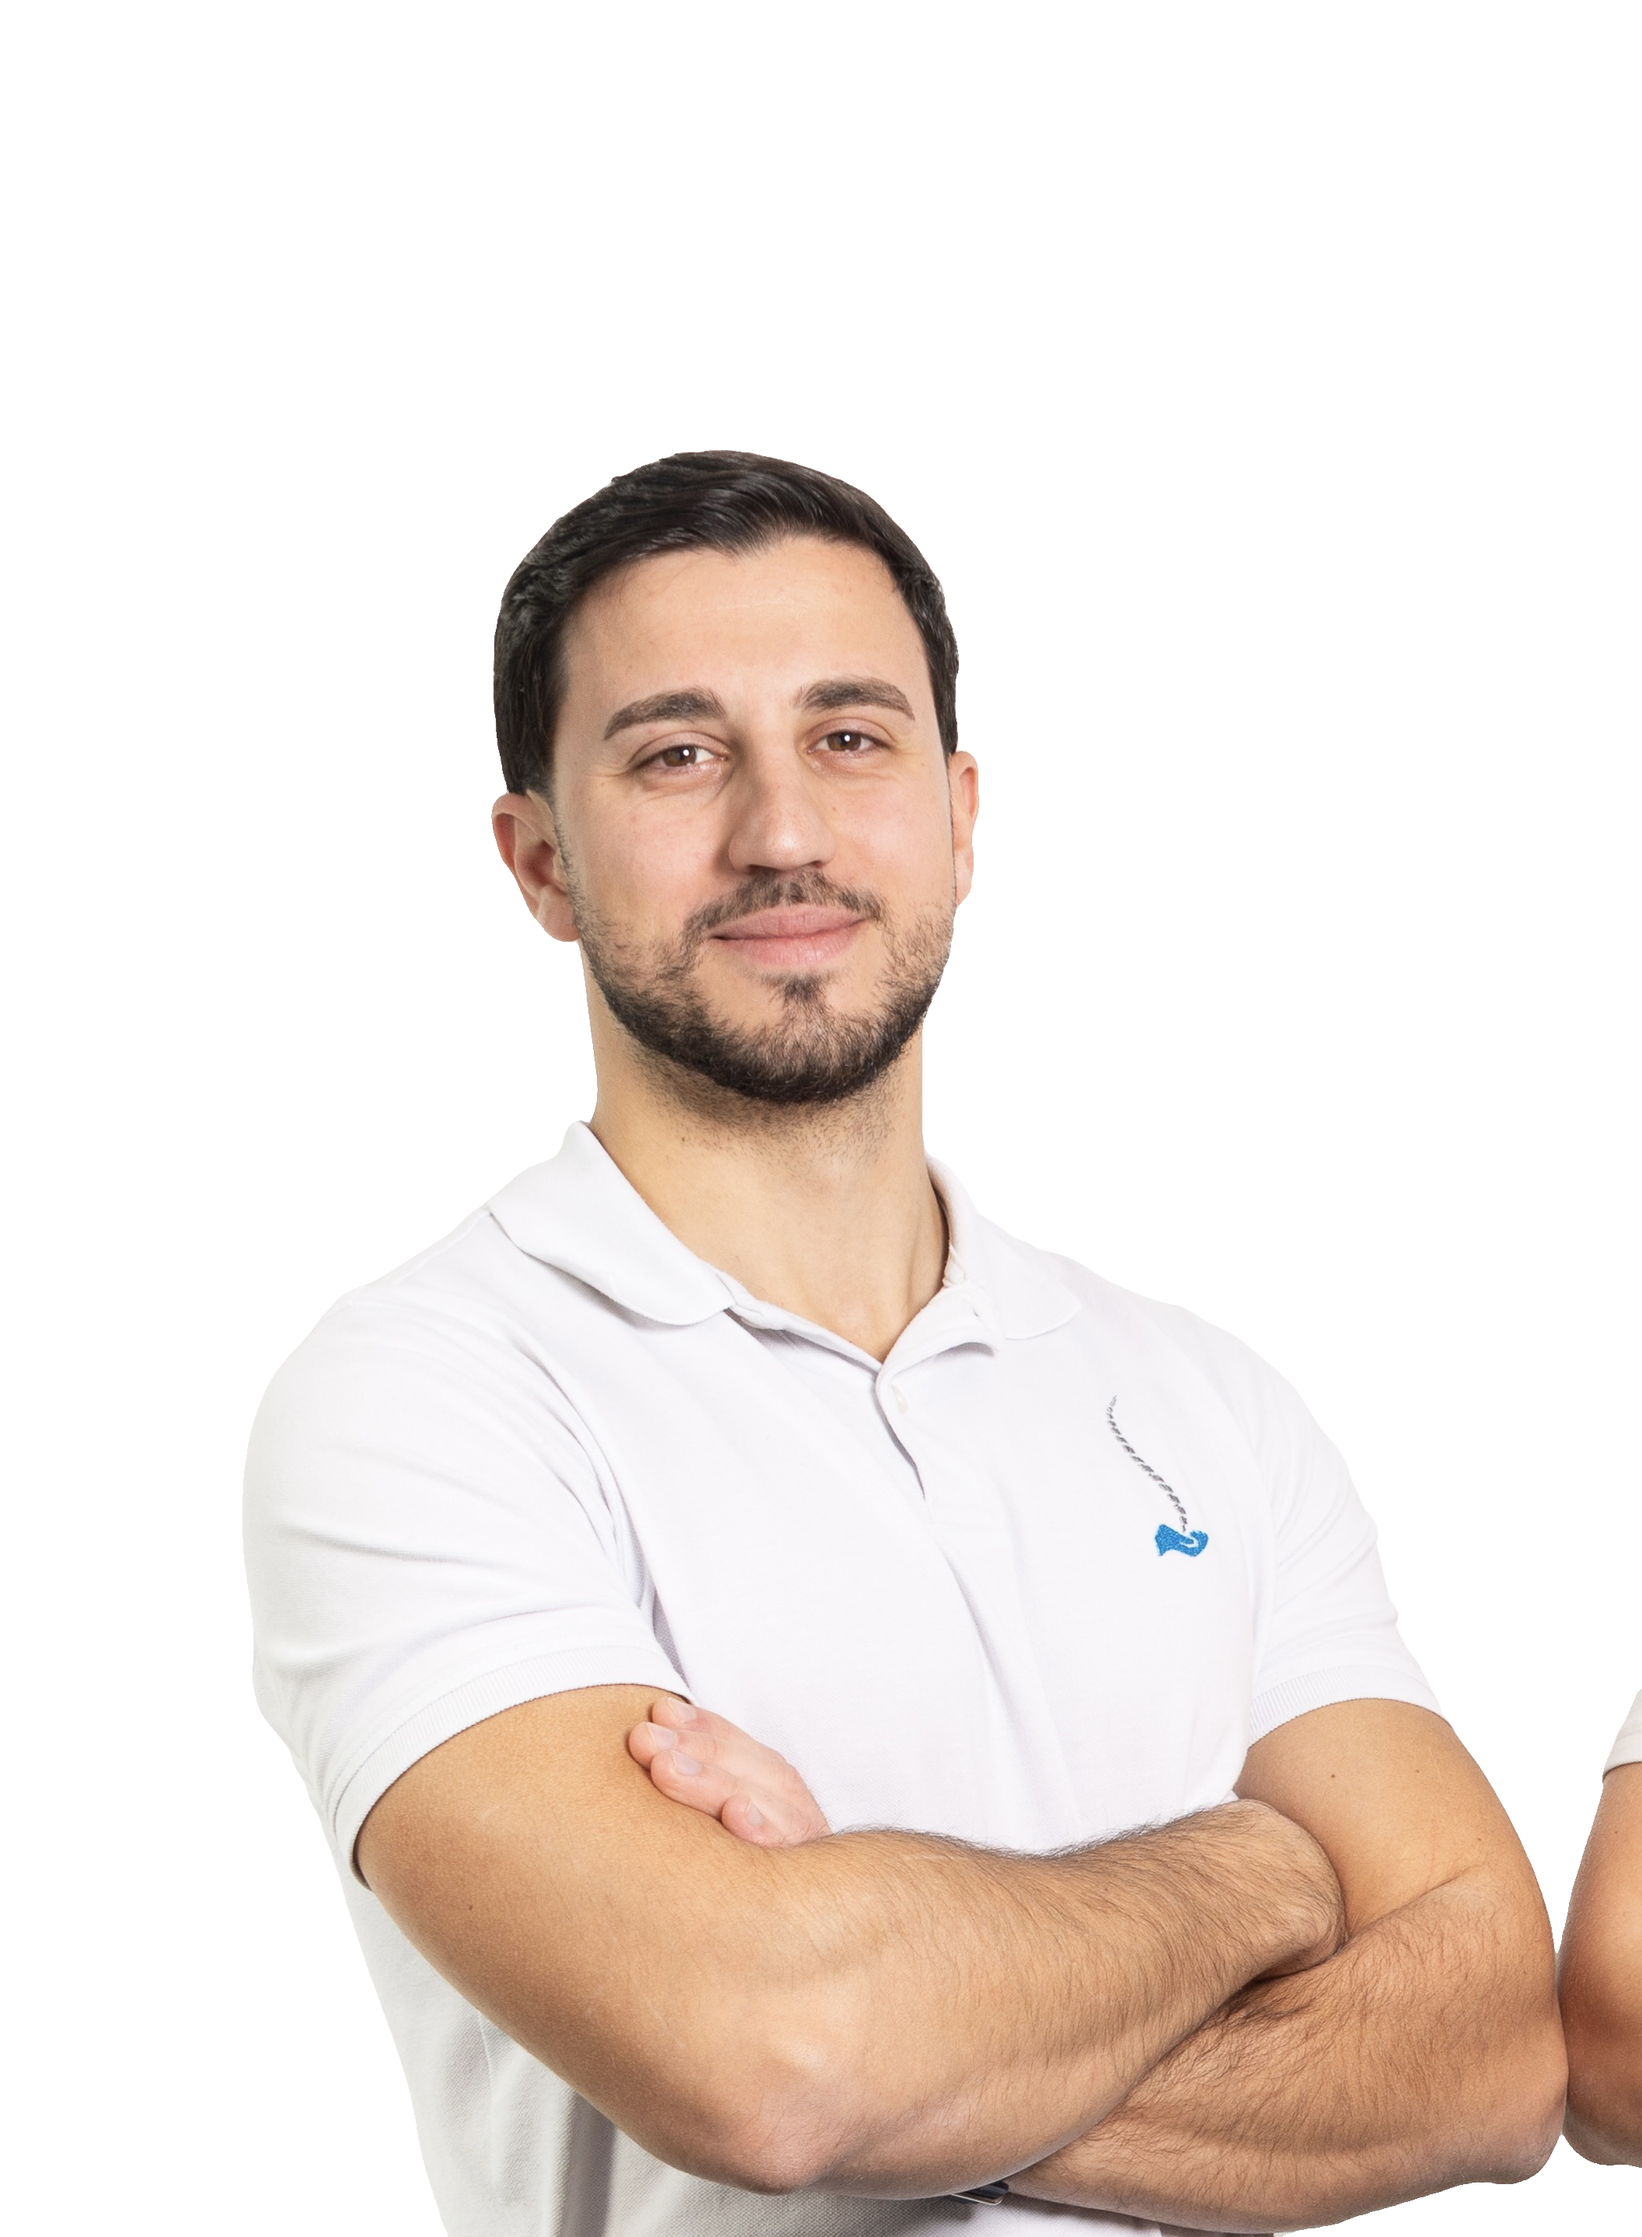
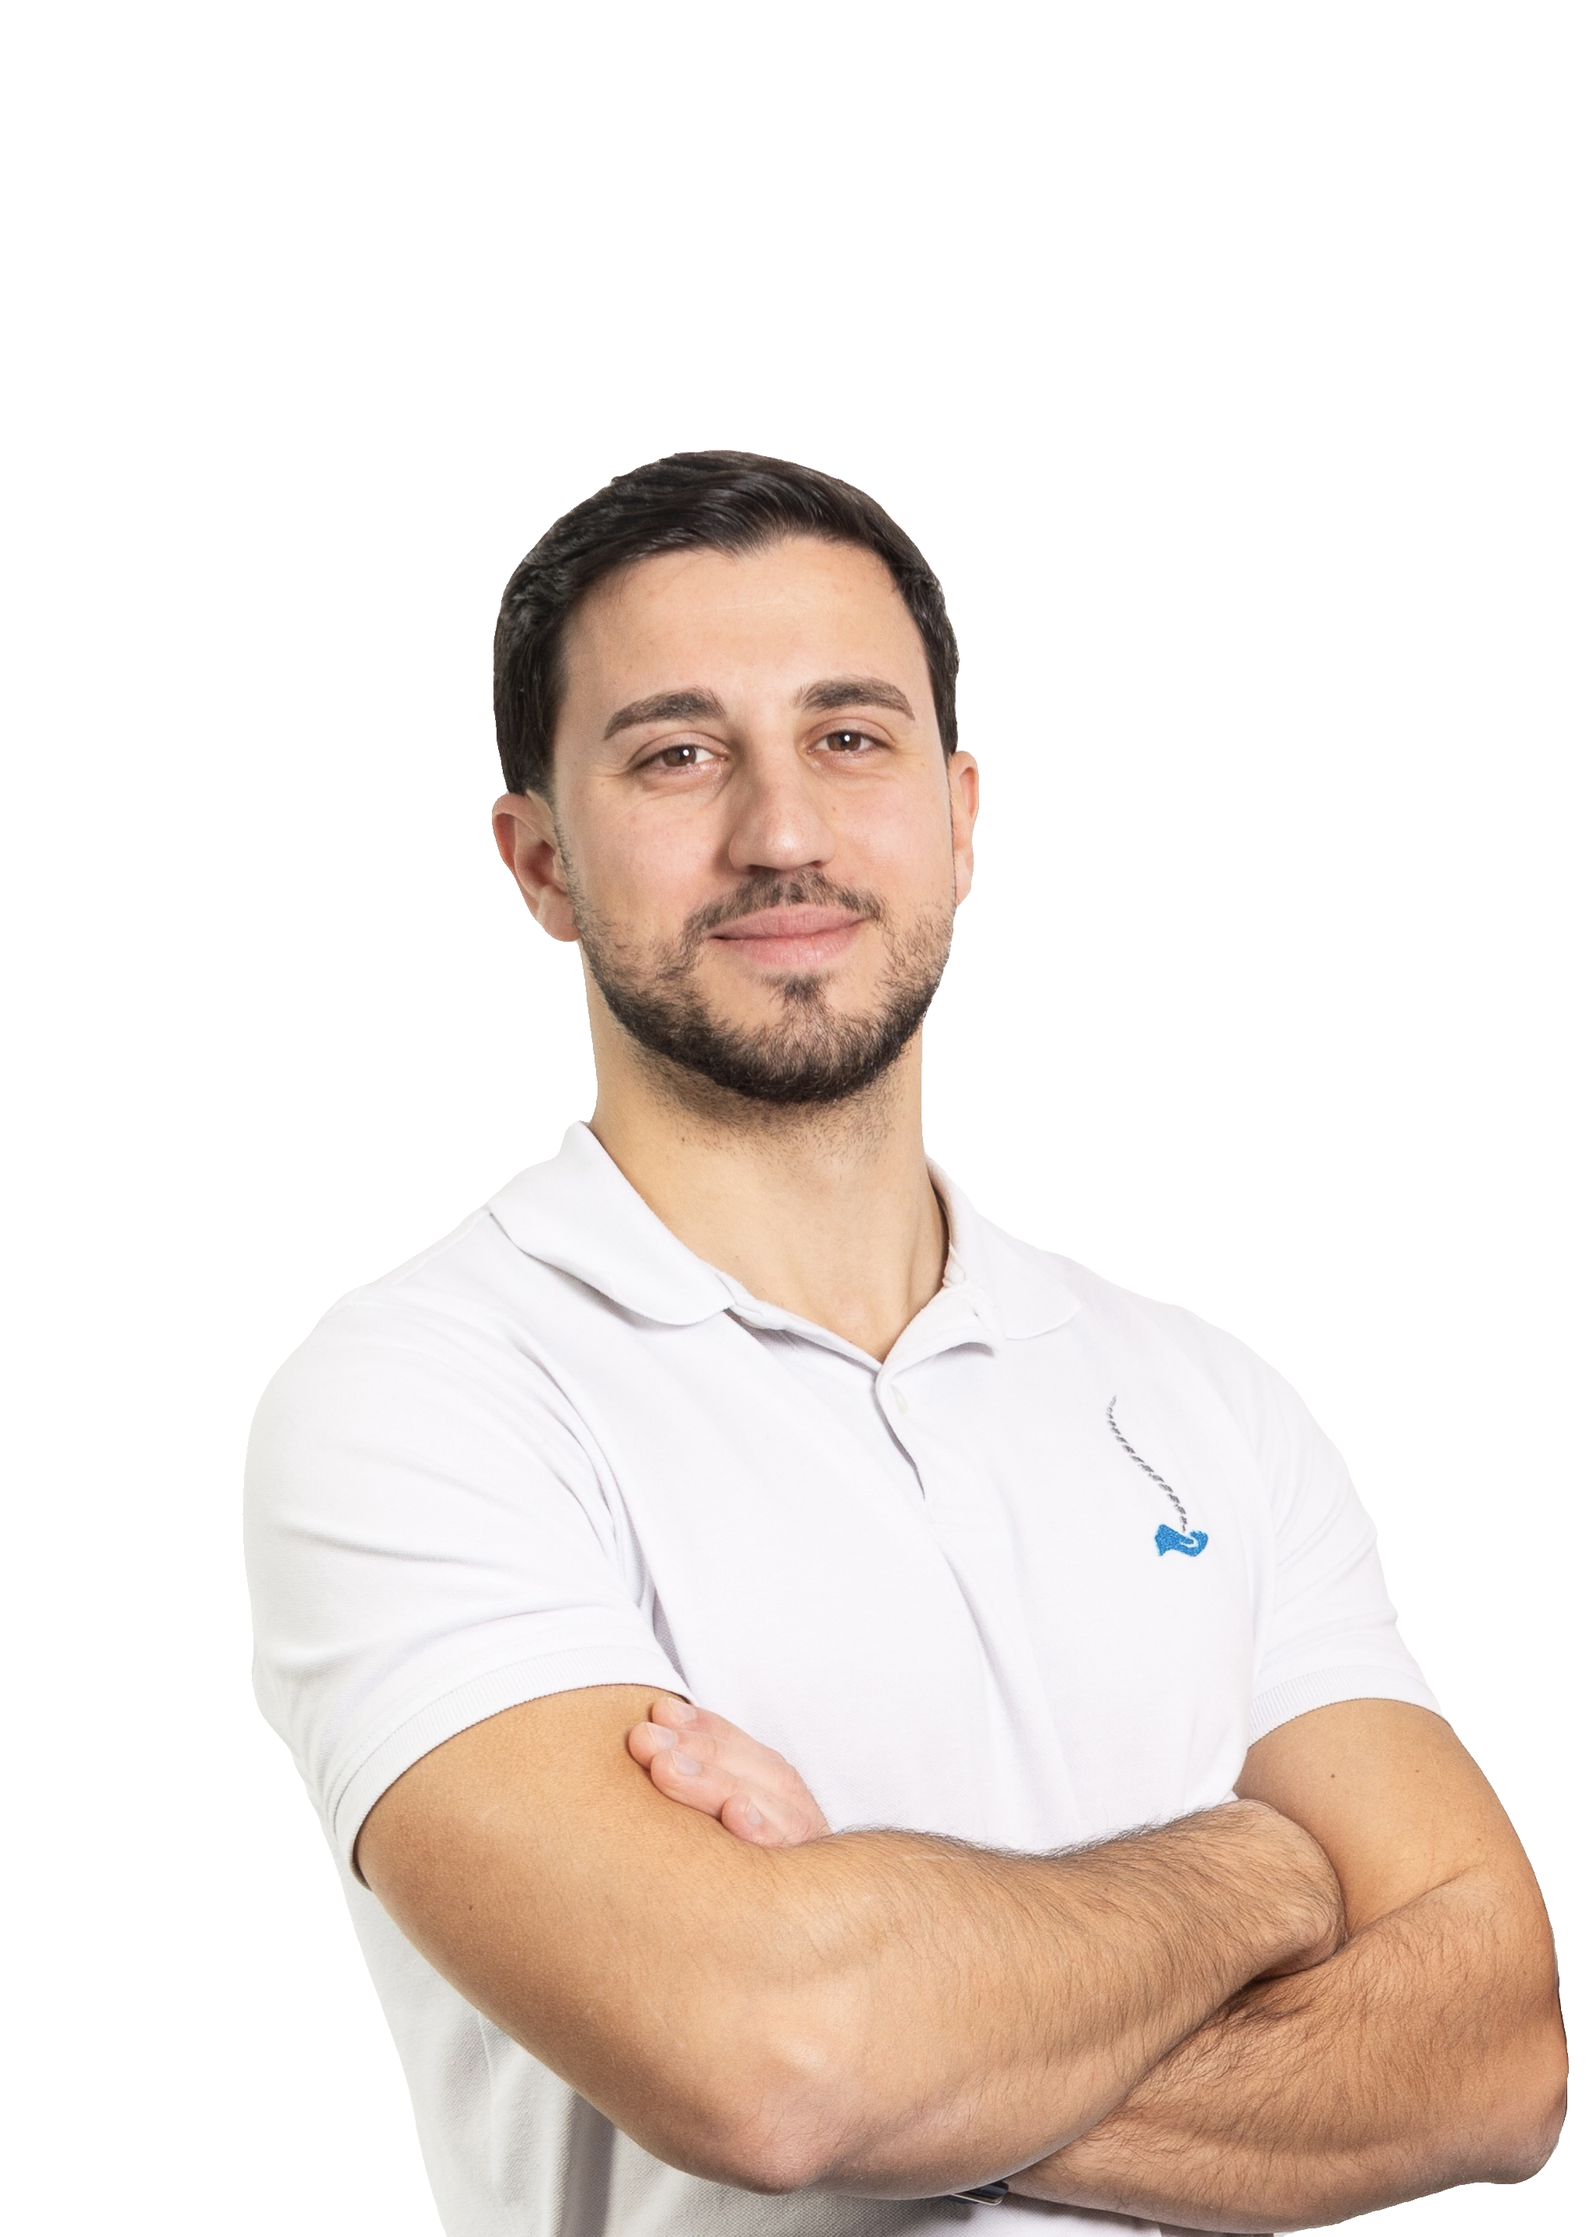
feat: update reception and therapists images, enhance TeamCard layout, and improve ChiSiamo component structure

diff --git a/assets/staff/terapisti.js b/assets/staff/terapisti.js
@@ -2,52 +2,59 @@ const terapisti = [
   { 
     name: "Alessio Papaianopol",
     caption: "",
-    image: "/staff/terapisti/fisioterapia.png",
+    image: "/staff/terapisti/alessioNoBg.png",
     description: "Lorem ipsum dolor sit amet consectetur adipisicing elit. Illum qui laudantium, deserunt iusto cupiditate fugiat ducimus molestiae doloribus. Laboriosam tempore aliquam facilis perferendis.",
     socialMedia: ""  
   },
   { 
-    name: "Giulia Lanciotti",
-    caption: "fisioterapista e  Personal Training FIPE",
-    image: "/staff/terapisti/fisioterapia.png",
-    description: "attualmente in formazione in ginnastica posturale e certificazione CSCS per la preparazione fisica avanzata. Ho inoltre avuto la possibilità di approfondire nel mio percorso  metodiche come l'idrokinesiterapia e il linfodrenaggio. Mi occupo di prevenzione degli infortuni, riabilitazione e miglioramento della performance sportiva. Seguo atleti e sportivi a diversi livelli in particolare nel nuoto e nel crossfit.",
+    name: "Flaminia d'Isa",
+    caption: "Fisioterapista",
+    image: "/staff/terapisti/flaminiaNoBg.png",
+    description: "mi sono specializzata in posturale secondo Mézières e riabilitazione di spalla. Occupandomi anche di pazienti sportivi, coniugo il trattamento delle problematiche dovute alla postura al ricondizionamento muscolare per contrastare i disturbi durante le attività sportive e della vita quotidiana. Specializzata nelle patologie di spalla e di colonna e nella cura della diastasi addominale ho approfondito lo studio di alcune tecniche osteopatiche come Strain Counterstrain",
     socialMedia: ""  
   },
   { 
     name: "Simone Inglese",
     caption: "Fisioterapista (PT, SPT, OMPT student)",
-    image: "/staff/terapisti/manipolazione-vertebrale.png",
+    image: "/staff/terapisti/simoneNoBg.png",
     description: "Nella mia attività clinica presso Ars Fisio, mi occupo di riabilitazione ortopedica e sportiva, con un focus specifico sulle patologie muscoloscheletriche e una particolare attenzione al mondo del Basket. La mia preparazione si fonda su un percorso di alta specializzazione: dopo la Laurea, ho conseguito il Master in Fisioterapia Sportiva e nelle Attività Artistiche e sto concludendo il secondo Master specialistico in ambito Muscoloscheletrico e Reumatologico. Parallelamente all'attività in studio, sono fisioterapista presso la Federazione Italiana Pallacanestro (FIP) e ricopro il ruolo di docente assistente per il Master in Fisioterapia Sportiva presso l’Università Campus Bio-Medico di Roma. Metto queste esperienze e la mia costante formazione al servizio di ogni paziente, per garantire un percorso di recupero efficace e basato sulle più recenti evidenze scientifiche",
+    socialMedia: ""  
+  },
+  { 
+    name: "Giacomo",
+    caption: "Fisioterapista",
+    image: "/staff/terapisti/giacomoNoBg.png",
+    description: "attualmente in formazione in ginnastica posturale e certificazione CSCS per la preparazione fisica avanzata. Ho inoltre avuto la possibilità di approfondire nel mio percorso  metodiche come l'idrokinesiterapia e il linfodrenaggio. Mi occupo di prevenzione degli infortuni, riabilitazione e miglioramento della performance sportiva. Seguo atleti e sportivi a diversi livelli in particolare nel nuoto e nel crossfit.",
+    socialMedia: ""  
+  },
+  { 
+    name: "Giulia Lanciotti",
+    caption: "fisioterapista e Personal Training FIPE",
+    image: "/staff/terapisti/giuliaNoBg.png",
+    description: "attualmente in formazione in ginnastica posturale e certificazione CSCS per la preparazione fisica avanzata. Ho inoltre avuto la possibilità di approfondire nel mio percorso  metodiche come l'idrokinesiterapia e il linfodrenaggio. Mi occupo di prevenzione degli infortuni, riabilitazione e miglioramento della performance sportiva. Seguo atleti e sportivi a diversi livelli in particolare nel nuoto e nel crossfit.",
     socialMedia: ""  
   },
   { 
     name: "Daniele De Prisco",
     caption: "Fisioterapista",
-    image: "/staff/terapisti/terapia-manuale.png",
+    image: "/staff/terapisti/danieleNoBg.png",
     description: "Sono Daniele, fisioterapista, con un Master di I livello in fisioterapia sportiva e attualmente in fase di completamento di un secondo Master di I livello in fisioterapia muscoloscheletrica e reumatologica. Mi occupo del trattamento di atleti, sia professionisti che amatoriali, accompagnandoli nel recupero dagli infortuni e nella loro prevenzione, con una particolare specializzazione nel lavoro con cestisti. Sono specializzato nella somministrazione dell’esercizio terapeutico e credo fortemente nell’importanza di costruire percorsi riabilitativi personalizzati, condividendo ogni scelta con il paziente per garantire un trattamento efficace e su misura.",
     socialMedia: ""  
   },
   { 
     name: "Damiano Nobile",
     caption: "fisioterapista e chinesiologo",
-    image: "/staff/terapisti/elettroterapia.png",
+    image: "/staff/terapisti/damianoNoBg.png",
     description: "attualmente iscritto al master OMPT. Mi occupo di prevenzione degli infortuni e recupero funzionale attraverso la terapia manuale e l’approccio personalizzato, basato sull’esercizio terapeutico. Il mio obiettivo è accompagnare verso un recupero efficace e duraturo, promuovendo movimento consapevole e performance in sicurezza.",
     socialMedia: ""  
   },
   { 
     name: "Elisa Audino",
     caption: "massofisioterapista iscritta all’ordine TSRM",
-    image: "/staff/terapisti/shock-wave.png",
+    image: "/staff/terapisti/elisaNoBg.png",
     description: "Nei miei anni di studio ed esperienza praticando la mia professione ho approfondito tecniche massofisioterapiche riguardanti il trattamento del tessuto connettivo e dei tessuti molli, il massaggio sportivo e il linfodrenaggio per patologie a carico del sistemata linfatico e del microcircolo. Mi occupo della rieducazione posturale secondo metodo mezieres, lavorando anche tramite lo svolgimento dell’esercizio terapeutico volto a favorire il ripristino della mobilità e del tono muscolare. Ho conseguito il master in terapia manuale viscerale per poter valutare, testare e trattare un problema viscerale legato ad una disfunzione sia essa fasciale, legamentosa, congestizia o muscolare.",
     socialMedia: ""  
   },
-  { 
-    name: "Flaminia d'Isa",
-    caption: "Fisioterapista",
-    image: "/staff/terapisti/ultrasuoni.png",
-    description: "mi sono specializzata in posturale secondo Mézières e riabilitazione di spalla. Occupandomi anche di pazienti sportivi, coniugo il trattamento delle problematiche dovute alla postura al ricondizionamento muscolare per contrastare i disturbi durante le attività sportive e della vita quotidiana. Specializzata nelle patologie di spalla e di colonna e nella cura della diastasi addominale ho approfondito lo studio di alcune tecniche osteopatiche come Strain Counterstrain",
-    socialMedia: ""  
-  }
 ];
 
 export default terapisti;

diff --git a/src/pages/ChiSiamo.jsx b/src/pages/ChiSiamo.jsx
@@ -1,22 +1,35 @@
 import Section from "../components/Section";
 import TeamCard from "../components/TeamCard";
+import terapisti from "../../assets/staff/terapisti";
+import reception from "../../assets/staff/reception";
 
 export default function ChiSiamo() {
+  const firstRow = terapisti.slice(0, 2);
+  const rest = terapisti.slice(2);
 
   return (
     <Section>
       <div className="max-w-6xl mx-auto px-4 space-y-16">
-
         {/* THERAPISTS */}
         <div>
           <h2 className="text-2xl md:text-3xl font-heading font-bold mb-8 text-center">
             Terapisti
           </h2>
 
-          <div className="grid grid-cols-1 md:grid-cols-3 gap-8">
-            {therapists.map((p, i) => (
-              <TeamCard key={i} {...p} />
-            ))}
+          <div className="space-y-8">
+            {/* FIRST ROW (2 centered) */}
+            <div className="grid grid-cols-1 md:grid-cols-2 gap-12">
+              {firstRow.map((p, i) => (
+                <TeamCard key={i} {...p} />
+              ))}
+            </div>
+
+            {/* REST (3 per row) */}
+            <div className="grid grid-cols-1 md:grid-cols-3 gap-8">
+              {rest.map((p, i) => (
+                <TeamCard key={i} {...p} />
+              ))}
+            </div>
           </div>
         </div>
 
@@ -27,12 +40,11 @@ export default function ChiSiamo() {
           </h2>
 
           <div className="grid grid-cols-1 md:grid-cols-3 gap-8">
-            {receptionists.map((p, i) => (
+            {reception.map((p, i) => (
               <TeamCard key={i} {...p} />
             ))}
           </div>
         </div>
-
       </div>
     </Section>
   );

diff --git a/src/index.css b/src/index.css
@@ -56,28 +56,6 @@ h3 {
   text-align: center;
 }
 
-/* Negative margins handling */
-
-.neg-mx-1 {
-  margin-left: -13rem;
-}
-
-.neg-mx-2 {
-  margin-left: -15rem;
-}
-
-.neg-mx-3 {
-  margin-left: -18rem;
-}
-
-.neg-mx-4 {
-  margin-left: -10rem;
-}
-
-.neg-mx-5 {
-  margin-left: -6rem;
-}
-
 /* #region Fonts */
 
 @font-face {
@@ -586,6 +564,34 @@ a:visited:active {
 /* #endregion LavoraConNoi */
 
 
+/* #region ChiSiamo */
+
+.perspective {
+  perspective: 1000px;
+}
+
+.group:hover .team-card-inner {
+  transform: rotateY(180deg);
+}
+
+.transform-style {
+  transform-style: preserve-3d;
+}
+
+.backface-hidden {
+  backface-visibility: hidden;
+  -webkit-backface-visibility: hidden;
+}
+
+.rotate-y-180 {
+  transform: rotateY(180deg);
+}
+
+/* #endregion ChiSiamo */
+
+
+/* #region Animazioni */
+
 @keyframes slideLeft {
   from {
     opacity: 0;
@@ -615,6 +621,8 @@ a:visited:active {
 .animate-slide-right {
   animation: slideRight 0.6s cubic-bezier(0.22, 1, 0.36, 1) forwards;
 }
+
+/* #endregion Animazioni */
 
 
 /* #region Responsive */

diff --git a/assets/staff/reception.js b/assets/staff/reception.js
@@ -2,13 +2,13 @@ const reception = [
   { 
     name: "Romina Ruggiero",
     caption: "responsabile del Front Office",
-    image: "/staff/reception/fisioterapia.png",
+    image: "/staff/reception/rominaNoBg.png",
     description: "Mi occupo dell’accoglienza dei pazienti, della gestione degli appuntamenti e dell'organizzazione dello studio, con l'obiettivo di offrire un servizio efficiente e attento alle esigenze di ciascuno. Sono il primo punto di contatto: per questo metto al centro ascolto, disponibilità e attenzione, per farvi sentire a vostro agio fin dal primo momento. Sono a disposizione per informazioni e prenotazioni.",
     socialMedia: ""  
   },
   { 
     name: "Ilaria Grippi",
-    image: "/staff/reception/manipolazione-vertebrale.png",
+    image: "/staff/reception/ilariaNoBg.png",
     description: "La manipolazione vertebrale consiste nella manipolazione della colonna vertebrale eseguita per indurre un rilassamento muscolare, migliorare il movimento e ridurre il dolore.",
     socialMedia: ""  
   }

diff --git a/src/components/TeamCard.jsx b/src/components/TeamCard.jsx
@@ -2,7 +2,7 @@ export default function TeamCard({ name, image, description, socials }) {
   return (
     <div className="group perspective">
       
-      <div className="relative w-full h-80 transition-transform duration-500 transform-style preserve-3d group-hover:rotate-y-180">
+      <div className="team-card-inner relative h-80 w-full transition-transform duration-500 transform-style">
 
         {/* FRONT */}
         <div className="absolute inset-0 backface-hidden rounded-2xl overflow-hidden bg-white/30 backdrop-blur-md border border-white/40 shadow-md">
